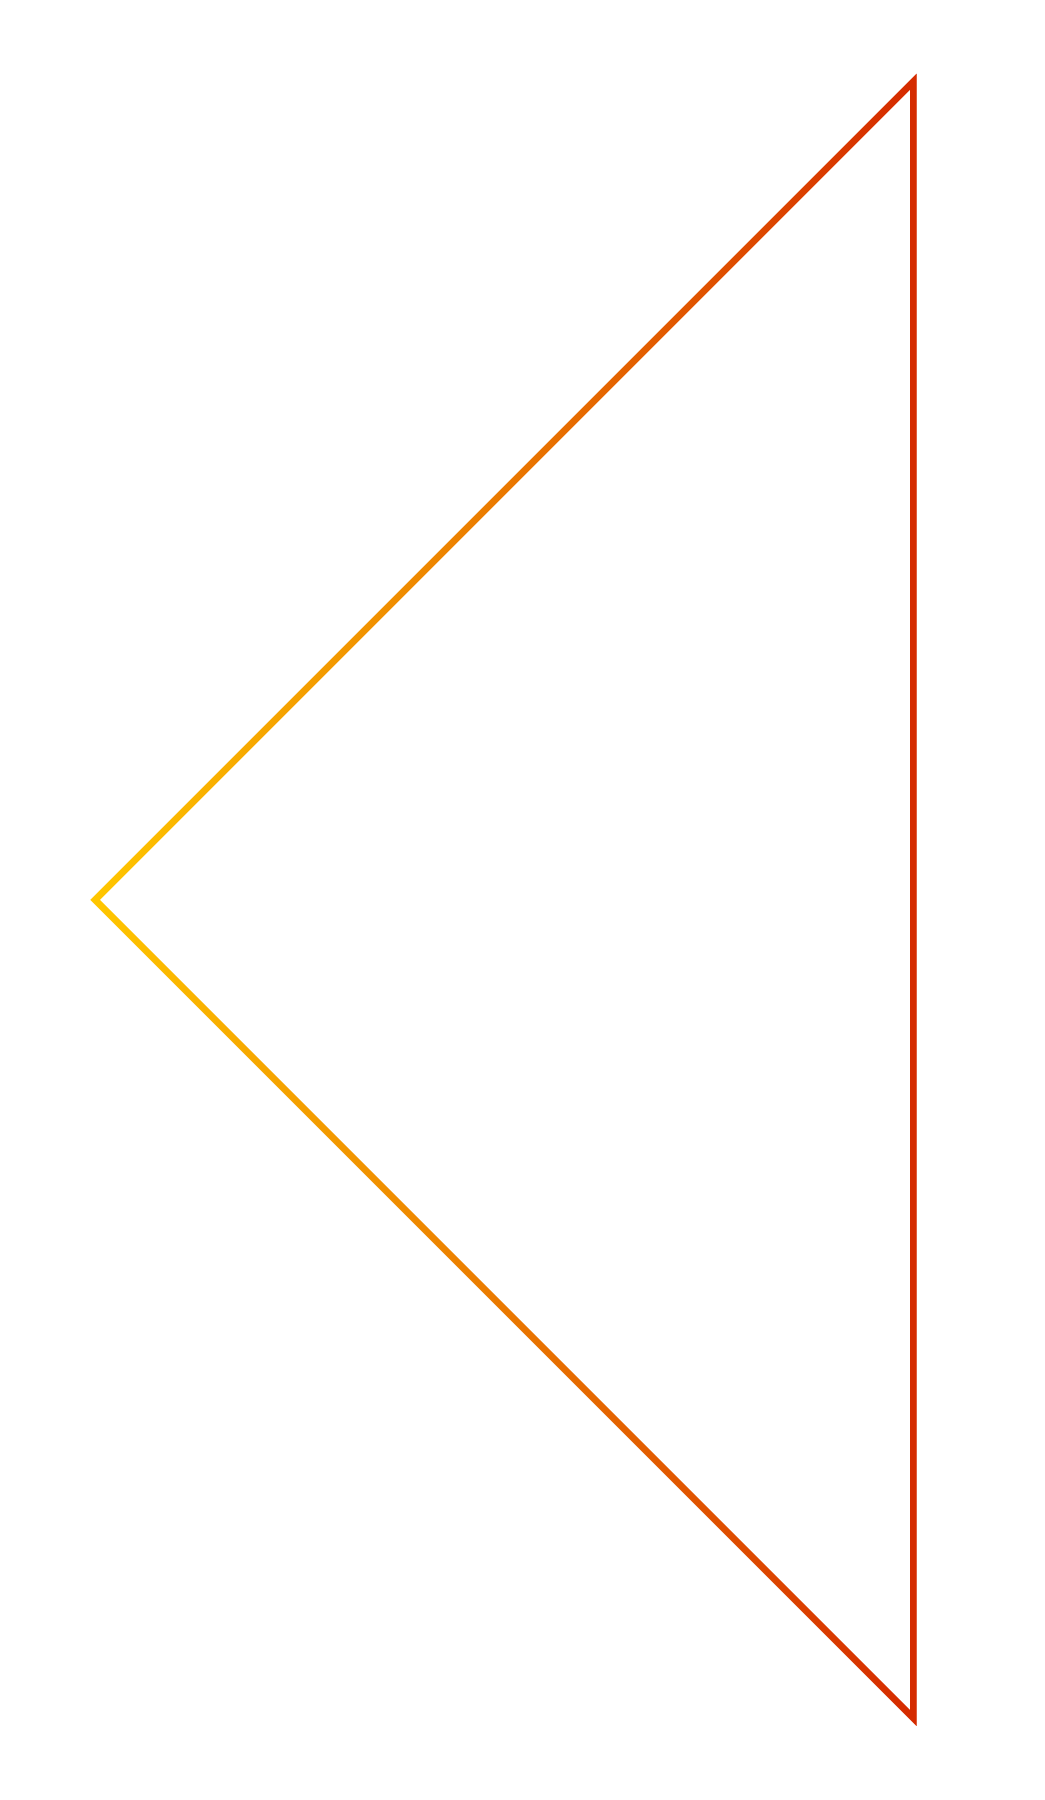
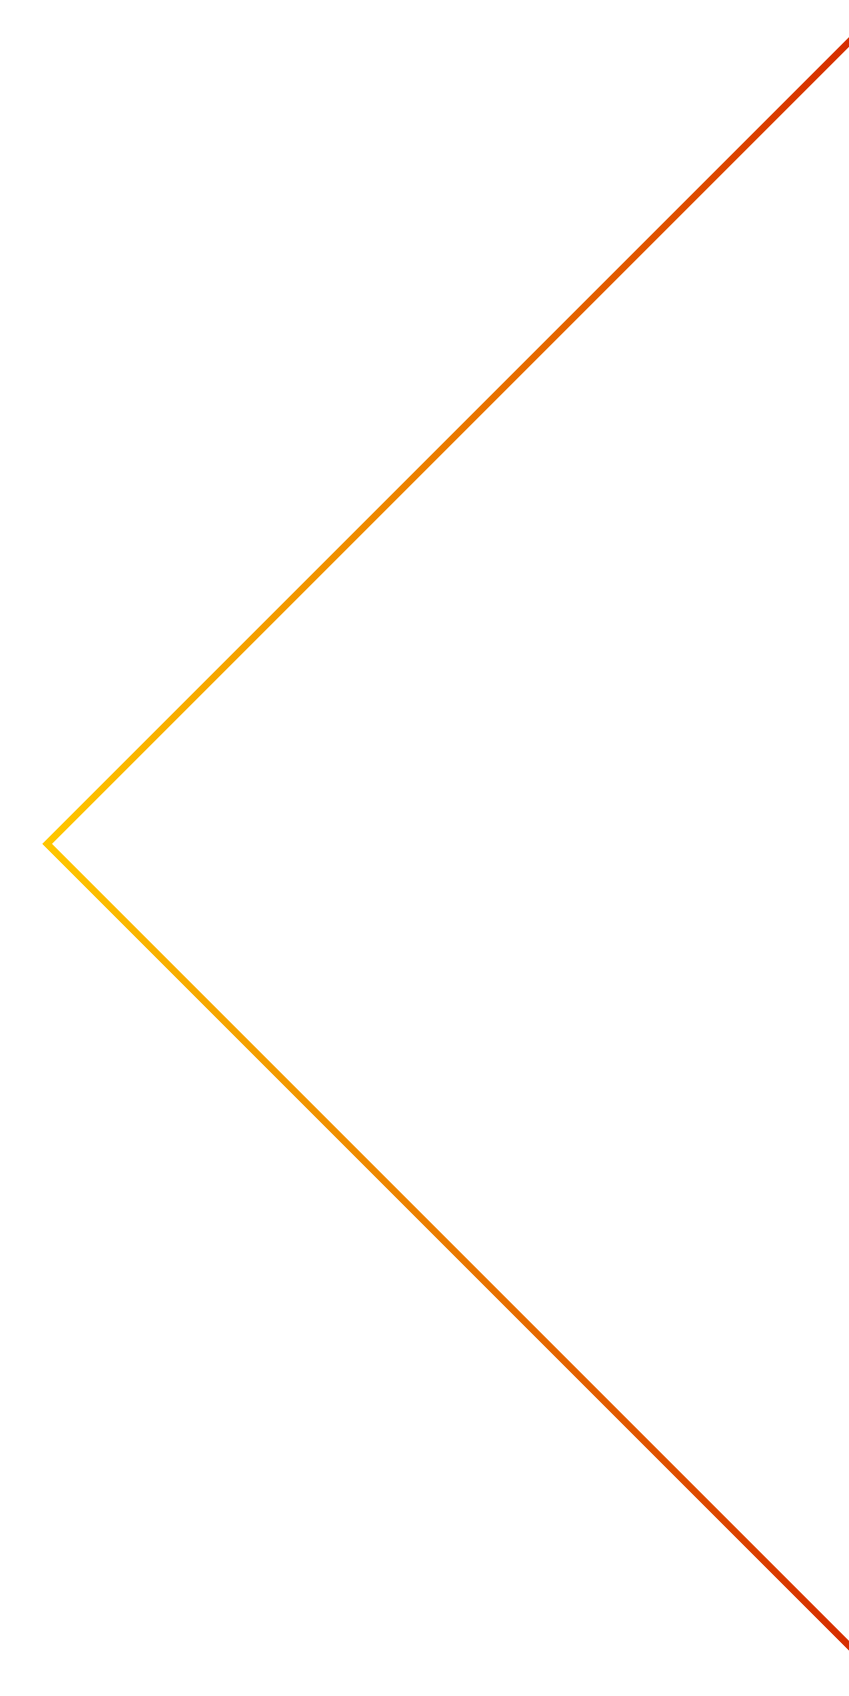
parallax

diff --git a/app/src/Containers/Productos/Productos.jsx b/app/src/Containers/Productos/Productos.jsx
@@ -106,41 +106,41 @@ const Productos = (props) => {
 
             </div>
 
-            <Carousel activeIndex={index} onSelect={handleSelect}>
+            <Carousel className="Carousel" activeIndex={index} onSelect={handleSelect}>
       <Carousel.Item>
         <img
           className="d-block w-100"
-          src="/images/carrusel-01.jpg"
+          src="/images/la-cachiteria-01.png"
           alt="First slide"
         />
         <Carousel.Caption>
-          <p className="SlideTitle">First slide label</p>
-          <p>Nulla vitae elit libero, a pharetra augue mollis interdum.</p>
+          <p className="SlideTitle">LA CACHITERIA</p>
+          <p>Valencia, España</p>
         </Carousel.Caption>
       </Carousel.Item>
       <Carousel.Item>
         <img
           className="d-block w-100"
-          src="/images/carrusel-02.jpg"
+          src="/images/julia-01.png"
           alt="Second slide"
         />
 
         <Carousel.Caption>
-          <p className="SlideTitle">Second slide label</p>
-          <p>Lorem ipsum dolor sit amet, consectetur adipiscing elit.</p>
+          <p className="SlideTitle">JULIA MINIMARKET</p>
+          <p>Valencia, España</p>
         </Carousel.Caption>
       </Carousel.Item>
       <Carousel.Item>
         <img
           className="d-block w-100"
-          src="/images/carrusel-03.jpg"
+          src="/images/altamira-01.png"
           alt="Third slide"
         />
 
         <Carousel.Caption>
-          <p className="SlideTitle">Third slide label</p>
+          <p className="SlideTitle">ALTAMIRA</p>
           <p>
-            Praesent commodo cursus magna, vel scelerisque nisl consectetur.
+            Tenerife, España
           </p>
         </Carousel.Caption>
       </Carousel.Item>

diff --git a/app/src/Containers/Home/Home.scss b/app/src/Containers/Home/Home.scss
@@ -6,18 +6,37 @@
     width: auto;
     height: 100%;
     margin: 0px;
-    padding-top: 10%;
+    padding-top: 8%;
+
+    .HomeTitle {
+
+        width: 80%;
+    }
 
 
-    .TrianguloRight {
+    .TrianguloTop {
 
         position: absolute;
-        height: 90%;
-        top: -20vh;
-        right: -10%;
-        width: 1000px;
-        height: 1000px;
+        top: -40vh;
+        left: 20%;
+        width: 60vw;
+        height: auto;
+        transform: rotate(-90deg);
         z-index: -2;
+
+    }
+
+    
+    .TrianguloDown {
+
+        position: absolute;
+        top: -40vh;
+        left: 20%;
+        width: 60vw;
+        height: auto;
+        transform: rotate(90deg);
+        z-index: -3;
+        filter: blur(20px);
 
     }
 
@@ -30,6 +49,18 @@
         width: 800px;
         height: 800px;
         z-index: -2;
+    }
+
+    
+    .TrianguloFront {
+
+        position: absolute;
+        top: 700px;
+        left: -25%;
+        width: 100%;
+        height: auto;
+        z-index: -1;
+
     }
 
     .HomeLineas {
@@ -109,35 +140,5 @@
     background-color: $goldenrod;
 }
 
-.CirculoRojo {
-
-    position: absolute;
-    width: 30vw;
-    bottom: 20vw;
-    right: 50vh;
-    z-index: -1;    
-
-}
-
-.BackText {
-
-    width: 50%;
-    height: auto;
-    position: absolute;
-    z-index: -2;
-    top: 0px;
-  
-    h4 {
-  
-      font-size: 10em;
-      color: transparent;
-      -webkit-text-stroke-width: 1px;
-      -webkit-text-stroke-color: black;
-      font-family: 'Gotham', sans-serif;
-      font-weight: 800;
-  
-    }
-  
-  }
 
 

diff --git a/app/src/Containers/Home/Home.jsx b/app/src/Containers/Home/Home.jsx
@@ -12,22 +12,30 @@ const Home = () => {
        
         <section className="HomeWrapper"> 
 
-            <Parallax speed={30}>
+            <Parallax speed={20}>
 
-                <img className="TrianguloRight" src="/images/lineas_triangulo_right.png" alt="" />
+                <img className="TrianguloTop" src="/images/lineas_triangulo_right.png" alt="" />
+
+            </Parallax>
+
+            <Parallax speed={7}>
+
+                <img className="TrianguloDown" src="/images/lineas_triangulo_right.png" alt="" />
 
             </Parallax>
 
             <Parallax speed ={5}>
 
-                <img className="TrianguloLeft" src="/images/lineas_triangulo_left.png" alt="" />
+                {/* <img className="TrianguloLeft" src="/images/lineas_triangulo_left.png" alt="" /> */}
             
             </Parallax>
-             
+
 
             <div className="HomeMain justify-content-center align-items-center">
 
-                <h3>CONCEPTO, <span className="Diseno">DISEÑO</span> & <span className="Produccion">PRODUCCIÓN</span></h3>
+                {/* <h3>CONCEPTO, <span className="Diseno">DISEÑO</span> & <span className="Produccion">PRODUCCIÓN</span></h3> */}
+
+                <img className="HomeTitle" src="/images/comunicacion-title-3.png" alt=""/>
 
                 <Productos />
  

diff --git a/app/src/Containers/About/About.jsx b/app/src/Containers/About/About.jsx
@@ -14,6 +14,8 @@ const About = () => {
 
                 <div className="AboutLeft">
 
+                    <img src="/images/comunicacion-6-logo.png" alt=""/>
+
 
 
                 </div>
@@ -24,7 +26,7 @@ const About = () => {
                     <p> Nuestra intención es ser uno de los mejores estudios de diseño de la región, donde
                         nuestros clientes podrán contar con un equipo de profesionales capacitados para
                         llevar a cabo con éxito cualquier proyecto publicitario, desde la creación del mismo
-                        hasta su produccción; es decir, seremos creadores y fabricantes de todos nuestros
+                        hasta su producción; es decir, seremos <span>creadores y fabricantes</span> de todos nuestros
                         proyectos. Aunado a esto tambien daremos servicio a los clientes que sólo requieren
                         servicios de impresión o corte, como los diseñadores freelance y comerciales dedicados
                         a la venta de la publicidad. </p>

diff --git a/app/src/Components/Footer/Footer.jsx b/app/src/Components/Footer/Footer.jsx
@@ -18,9 +18,9 @@ const Footer = (props) => {
 
                 <div className="IconBox d-flex w-auto h-auto mr-5">
                     
-                    <i class="SocialIcon fab fa-instagram"></i>
-                    <i class="SocialIcon fab fa-facebook-f"></i>
-                    <i class="SocialIcon fab fa-behance"></i>
+                    <a href="https://www.instagram.com/comunicacion6tenerife/?hl=es"><i class="SocialIcon fab fa-instagram"></i></a>
+                    <a href="https://www.facebook.com/comunicacion6/"><i class="SocialIcon fab fa-facebook-f"></i></a>
+                    <a href="https://www.behance.net/comunicacion6estudio"><i class="SocialIcon fab fa-behance"></i></a>
 
                 </div>
 

diff --git a/app/src/Containers/About/About.scss b/app/src/Containers/About/About.scss
@@ -8,7 +8,6 @@
     align-items: center;
     width: 100vw;
     height: 100vh;
-    border: 1px solid white;
 
 }
 
@@ -17,12 +16,14 @@
     display: flex;
     width: 80%;
     height: 60%;
-    border: 1px solid white;
     padding: 2em;
     color: $goldenrod;
 
     .AboutLeft {
 
+        display: flex;
+        justify-content: center;
+        align-items: center;
         width: 50%;
         height: 100%;
     }
@@ -33,6 +34,16 @@
         align-items: center;
         width: 50%;
         height: 100%;
+        padding: 2em;
+
+        p {
+            line-height: 2em;
+        }
+
+        span {
+            font-size: 1.4em;
+            font-weight: 800;
+        }
     }
 
 }

diff --git a/app/src/Components/Header/Header.jsx b/app/src/Components/Header/Header.jsx
@@ -9,14 +9,14 @@ const Header = () => {
         <section className="HeaderWrapper justify-content-between align-items-center">
 
 
-                <img className="HeaderLogo" src="/images/comunicacion-6-logo.png" alt=""/>
+            <img className="HeaderLogo" src="/images/comunicacion-6-logo.png" alt=""/>
 
                 <div className="ButtonsContainer d-flex w-50 align-items-center justify-content-around mr-5">
 
                     <a href="/home">HOME</a>
                     <a href="/#">PRODUCTOS</a>
                     <a href="/nosotros">NOSOTROS</a>
-                    <a href="/#">PROYECTOS</a>
+                    <a href="/#">CONTACTO</a>
 
                 </div>
 

diff --git a/app/src/Components/Header/Header.scss b/app/src/Components/Header/Header.scss
@@ -17,6 +17,18 @@
         font-family: 'Gotham', sans-serif;
         font-size: 0.9em;
         font-weight: 800;
+        transition: $transition;
+    }
+
+    a:hover {
+        
+        all: unset;
+        color: $goldenrod;
+        cursor: pointer;
+        font-family: 'Gotham', sans-serif;
+        font-size: 1.5em;
+        font-weight: 800;
+        transition: $transition;
     }
 
     .Burger {
@@ -31,5 +43,15 @@
     height: 70%;
     cursor: pointer;
     margin: 0em 4em 0em 2em;
+    transition: $transition;
+
+}
+
+.HeaderLogo:hover {
+
+    height: 80%;
+    cursor: pointer;
+    margin: 0em 4em 0em 2em;
+    transition: $transition;
 
 }

diff --git a/app/src/Containers/Productos/Productos.scss b/app/src/Containers/Productos/Productos.scss
@@ -43,7 +43,6 @@
     justify-content: flex-start;
     align-items: center;
     padding: 2em;
-    border-top: 1px solid white;
     
     .ProductosTitulo {
         
@@ -80,6 +79,7 @@
       color: $goldenrod;
 
       .White {
+          
           color: white;
       }
 
@@ -134,9 +134,8 @@
         flex-direction: column;
         align-items: center;
         width: 100%;
-        border: 1px solid $goldenrod;
         margin-top: 4vw;
-        padding: 10vw;
+        padding: 2vw;
 
 
         h3 {
@@ -170,4 +169,8 @@
             font-weight: 800;
         }
 
+    }
+
+    .Carousel {
+       
     }

diff --git a/app/src/App.scss b/app/src/App.scss
@@ -5,7 +5,7 @@
   display: flex;
   flex-direction: column;
   width: 100vw;
-  height: 2000px;
+  height: auto;
 
 }
 
@@ -31,7 +31,6 @@
   
   width: 100%;
   height: auto;
-  border: 1px solid white;
 
 }
 

diff --git a/app/src/Components/Footer/Footer.scss b/app/src/Components/Footer/Footer.scss
@@ -43,6 +43,15 @@
    
 }
 
+.SocialIcon:hover {
+    
+    color: $goldenrod;
+    font-size: 2em;
+    margin-left: 1.8em;
+    transition: $transition;
+   
+}
+
 
 .IconBox {
     

diff --git a/app/src/Colors.scss b/app/src/Colors.scss
@@ -4,3 +4,5 @@ $middleyellow: #ffec00;
 $goldenrod: #c4850a;
 $olive: #807600;
 $black: #000000;
+
+$transition: 0.1s cubic-bezier(.66,-0.21,.31,1.36);
